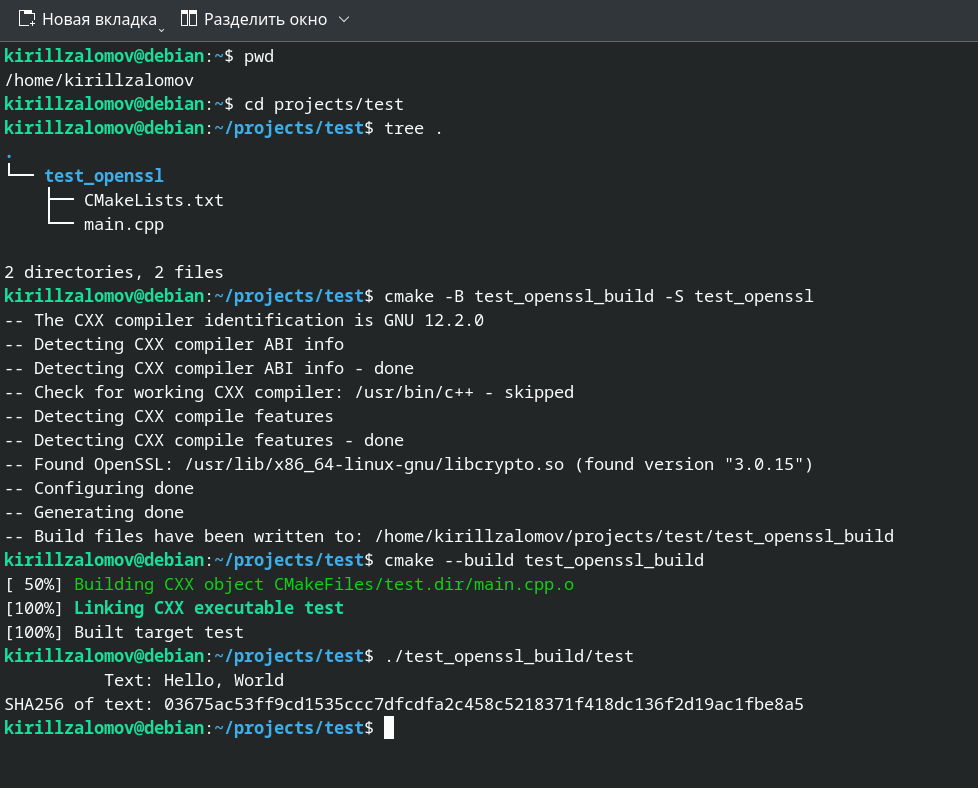
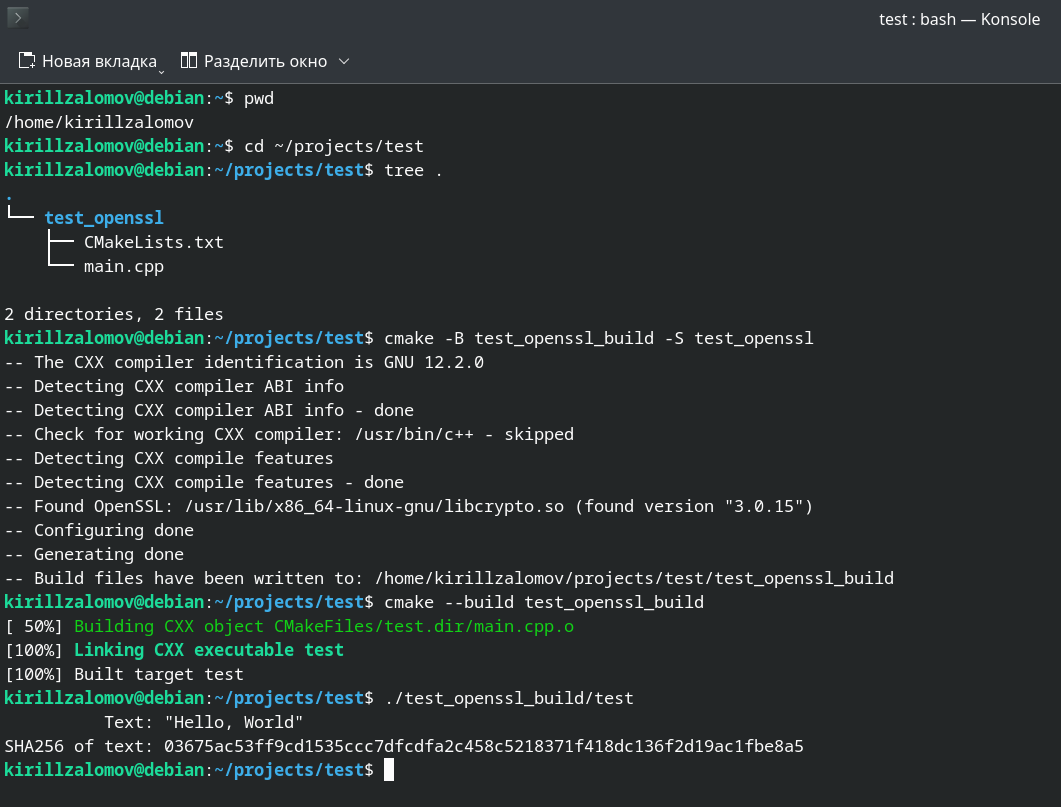
Отредактирован файл про openssl

diff --git a/0001_using_of_openssl/adding_to_project.md b/0001_using_of_openssl/adding_to_project.md
@@ -40,7 +40,7 @@ virtualbox:
 
 ```sh
 kirillzalomov@debian:~$ apt policy openssl
-N: Невозможно найти пакет vmware
+N: Невозможно найти пакет openssl
 ```
 
 ### 2) Установка пакета OpenSSL через apt  
@@ -66,14 +66,14 @@ man crypto
 
 Также документация доступна по ссылке: [https://docs.openssl.org/master/man7/](https://docs.openssl.org/master/man7/)
 
-### 4) Добавление OpenSSL в проекта на C++ с системой сборки CMake  
+### 4) Добавление OpenSSL в проект на C++ с системой сборки CMake  
 
 Для добавления OpenSSL в проект с CMake в файле CMakeLists.txt нужно указать:  
 
 ```cmake
 find_package(OpenSSL REQUIRED)
-add_executable(target <project_sources>)
-target_link_libraries(target PRIVATE OpenSSL::SSL OpenSSL::Crypto)
+add_executable(test <project_sources>)
+target_link_libraries(test PRIVATE OpenSSL::SSL OpenSSL::Crypto)
 ```
 
 ### 5) Пример проекта для тестирования работы  
@@ -117,7 +117,7 @@ int main() {
     SHA256(reinterpret_cast<const unsigned char*>(input.c_str()), input.size(), hash);
 
     // Выводим исходный текст
-    std::cout << std::setw(16) << "Text: " << input << std::endl;
+    std::cout << std::setw(16) << "Text: " << "\"" << input << "\"" << std::endl;
 
     // Выводим хеш SHA256 для текста "Hello, World"
     std::cout << std::setw(16) << "SHA256 of text: ";
